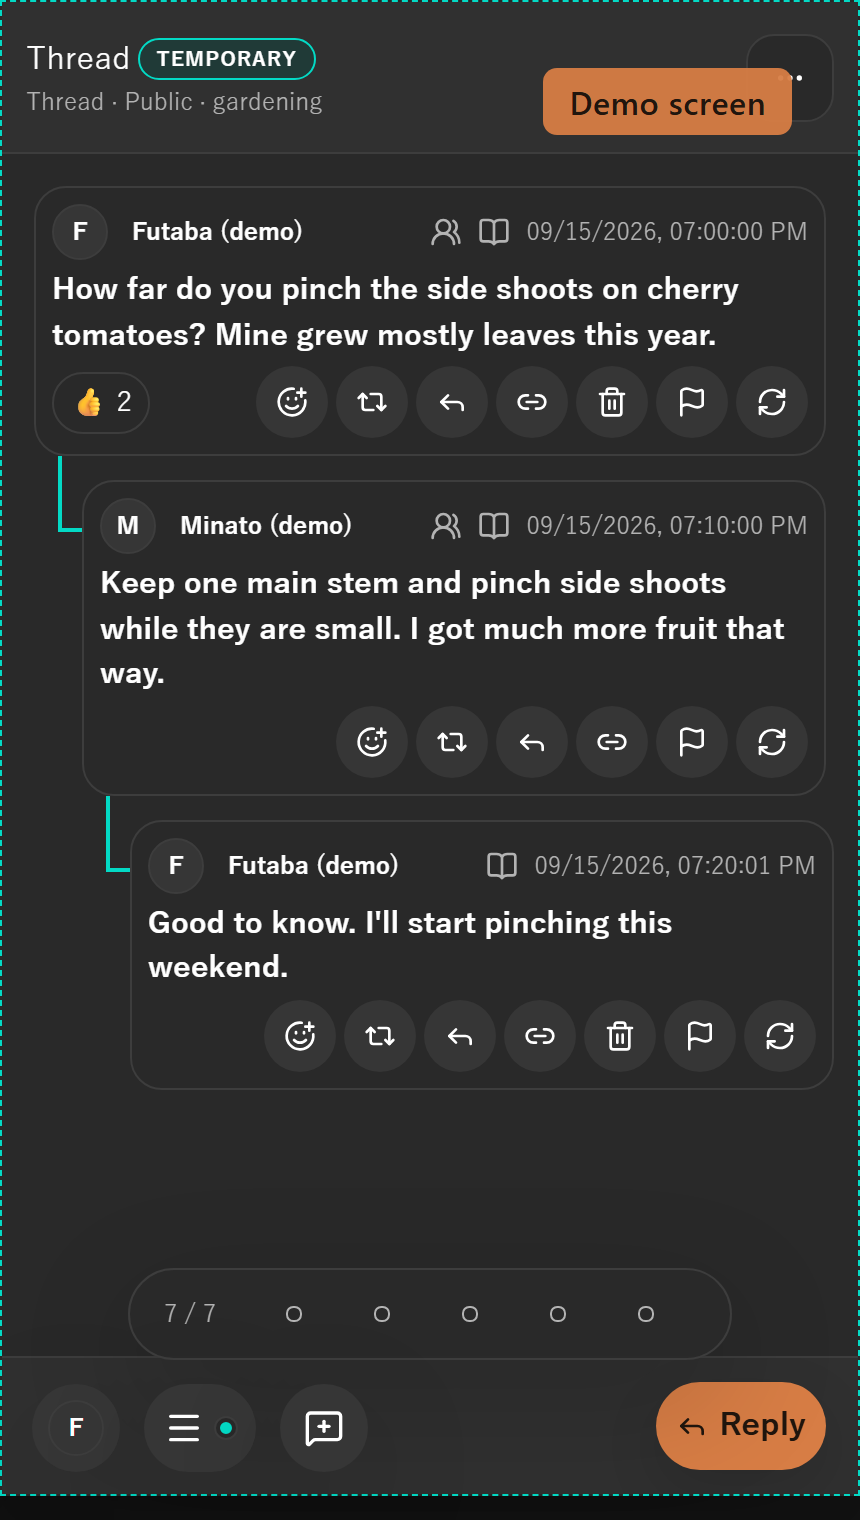
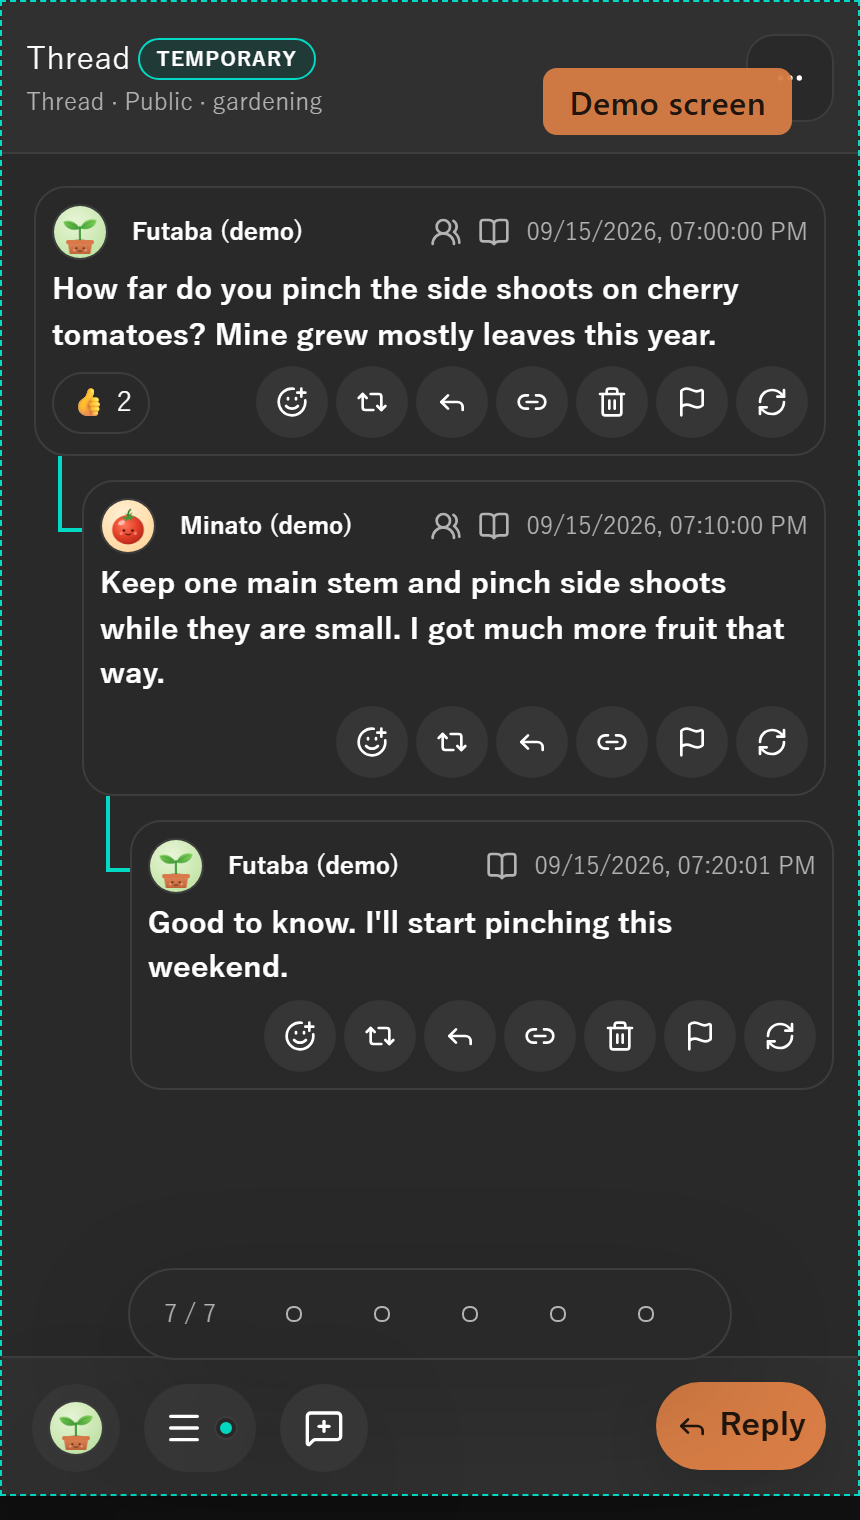
feat(lp): LP の画面のデモ参加者に、撮影用に作ったプロフィール画像を付ける（#1668）
- ユーザーの指示（2026-10-09）で、既定の頭文字のアバターの代わりに、ふたばに鉢の双葉の芽、みなとにミニトマトの絵を付ける。絵は撮影用に作ったもので、実在の人物や第三者の画像ではない。
- browser mock の seed に、hash ごとの blob の中身（seedBlobPayloads）を渡せるようにした。getBlobMediaPayload がそれを返し、既存の撮影の物語（S0〜S3）は変わらない。
- 返信先の表示（reply_preview）にも、実アプリと同じく返信先の投稿者の画像を載せる。

diff --git a/apps/desktop/tests/promo/fixtures/lpStory.ts b/apps/desktop/tests/promo/fixtures/lpStory.ts
@@ -1,5 +1,9 @@
+import { readFileSync } from 'node:fs';
+import path from 'node:path';
+
+import type { BlobMediaPayload, ProfileAssetView } from '../../../src/lib/api';
 import type { DesktopMockApiOptions } from '../../../src/mocks/desktopMockModel';
-import { FUTABA, MINATO, post, replyFields, type PromoLocale } from './demoStory';
+import { FUTABA, MINATO, post, replyFields, type Person, type PromoLocale } from './demoStory';
 
 /**
  * LP の画面 (#1668) の合成のデモ物語。話題「ベランダ菜園」で、ふたば（操作者）が質問し、
@@ -55,6 +59,18 @@ export const GARDEN_COPY = {
 export const GARDEN_QUESTION_ID = 'promo-garden-question';
 
 /**
+ * デモ参加者のプロフィール画像。撮影用に作った絵（ふたば: 双葉の芽、みなと: ミニトマト）で、
+ * 実在の人物や第三者の画像ではない。
+ */
+function avatar(file: string): { asset: ProfileAssetView; payload: BlobMediaPayload } {
+  const bytes = readFileSync(path.join(import.meta.dirname, 'avatars', file));
+  return {
+    asset: { hash: `promo-avatar-${file.replace(/\.png$/, '')}`, mime: 'image/png', bytes: bytes.length, role: 'profile_avatar' },
+    payload: { bytes_base64: bytes.toString('base64'), mime: 'image/png' },
+  };
+}
+
+/**
  * 撮影に使う mock の seed。開発者モードの面は seed にも画面にも現れない。
  *
  * - 公開の話題: ふたばの質問、みなとの答え（返信）、みなとの前日の投稿
@@ -67,6 +83,11 @@ export const GARDEN_QUESTION_ID = 'promo-garden-question';
 export function createGardenSeed(locale: PromoLocale): DesktopMockApiOptions {
   const copy = GARDEN_COPY[locale];
   const topic = gardenTopic(locale);
+  const futaba = avatar('futaba.png');
+  const minato = avatar('minato.png');
+  const pictureOf = (person: Person) => ({
+    author_picture_asset: person === FUTABA ? futaba.asset : minato.asset,
+  });
   const question = post({
     id: GARDEN_QUESTION_ID,
     person: FUTABA,
@@ -74,6 +95,7 @@ export function createGardenSeed(locale: PromoLocale): DesktopMockApiOptions {
     content: copy.question,
     createdAt: BASE_TIME,
     reactions: [{ emoji: '👍', count: 2 }],
+    extra: pictureOf(FUTABA),
   });
   const answer = post({
     id: 'promo-garden-answer',
@@ -81,7 +103,7 @@ export function createGardenSeed(locale: PromoLocale): DesktopMockApiOptions {
     locale,
     content: copy.answer,
     createdAt: BASE_TIME + 600,
-    extra: replyFields(question, topic),
+    extra: { ...replyFields(question, topic), ...pictureOf(MINATO) },
   });
   const firstRed = post({
     id: 'promo-garden-first-red',
@@ -90,19 +112,21 @@ export function createGardenSeed(locale: PromoLocale): DesktopMockApiOptions {
     content: copy.firstRed,
     createdAt: BASE_TIME - 86400,
     reactions: [{ emoji: '🍅', count: 4 }],
+    extra: pictureOf(MINATO),
   });
   // チャンネルの投稿は、タイムラインと同じく新しい順に並べる。
   const channel = [...copy.channel]
-    .map((content, index) =>
-      post({
+    .map((content, index) => {
+      const person = index === 1 ? FUTABA : MINATO;
+      return post({
         id: `promo-garden-channel-${index}`,
-        person: index === 1 ? FUTABA : MINATO,
+        person,
         locale,
         content,
         createdAt: BASE_TIME + 3600 + index * 300,
-        extra: { channel_id: CHANNEL_ID, audience_label: 'Private channel' },
-      })
-    )
+        extra: { channel_id: CHANNEL_ID, audience_label: 'Private channel', ...pictureOf(person) },
+      });
+    })
     .reverse();
 
   return {
@@ -111,6 +135,7 @@ export function createGardenSeed(locale: PromoLocale): DesktopMockApiOptions {
       name: FUTABA.name[locale],
       display_name: FUTABA.name[locale],
       about: locale === 'ja' ? 'kukuri を試しているデモ用アカウントです。' : 'A demo account trying kukuri.',
+      picture_asset: futaba.asset,
     },
     authorSocialViews: {
       [MINATO.pubkey]: {
@@ -120,7 +145,12 @@ export function createGardenSeed(locale: PromoLocale): DesktopMockApiOptions {
         following: true,
         followed_by: true,
         mutual: true,
+        picture_asset: minato.asset,
       },
+    },
+    seedBlobPayloads: {
+      [futaba.asset.hash]: futaba.payload,
+      [minato.asset.hash]: minato.payload,
     },
     seedPosts: { [topic]: [...channel, answer, question, firstRed] },
     // 招待を受け取ったときに参加するチャンネル。作ったのはみなと。

diff --git a/apps/desktop/src/mocks/desktopMockModel.ts b/apps/desktop/src/mocks/desktopMockModel.ts
@@ -1,5 +1,6 @@
 import {
   type AuthorSocialView,
+  type BlobMediaPayload,
   type BookmarkedPostView,
   type ChannelAccessTokenPreview,
   type GameRoomView,
@@ -52,6 +53,11 @@ export type DesktopMockApiOptions = {
    * 撮影中に作った投稿を seed の投稿と同じ日時帯に並べるために使う。
    */
   clockBase?: number;
+  /**
+   * hash ごとの blob の中身。getBlobMediaPayload が返す。告知素材の撮影 (#1668) が、
+   * デモ参加者のプロフィール画像を表示するために使う。
+   */
+  seedBlobPayloads?: Record<string, BlobMediaPayload>;
 };
 
 export function parseMockChannelAccessTokenPreview(

diff --git a/apps/desktop/src/mocks/api/connectivity.ts b/apps/desktop/src/mocks/api/connectivity.ts
@@ -610,8 +610,9 @@ export function createConnectivityMock(runtime: MockRuntime): ConnectivityMock {
       return 'peer1@127.0.0.1:7777';
     },
     async getBlobMediaPayload(hash, mime): Promise<BlobMediaPayload | null> {
-      if (metaverseAssetPayloads[hash]) {
-        return metaverseAssetPayloads[hash];
+      const stored = metaverseAssetPayloads[hash] ?? runtime.options?.seedBlobPayloads?.[hash];
+      if (stored) {
+        return stored;
       }
       return {
         bytes_base64: mime.startsWith('video/') ? 'ZmFrZS12aWRlbw==' : 'ZmFrZS1pbWFnZQ==',

diff --git a/apps/desktop/tests/promo/fixtures/demoStory.ts b/apps/desktop/tests/promo/fixtures/demoStory.ts
@@ -138,6 +138,7 @@ export function replyFields(parent: SeedPostInput, topic: string): Partial<SeedP
         pubkey: parent.author_pubkey,
         name: parent.author_name ?? null,
         display_name: parent.author_display_name ?? null,
+        picture_asset: parent.author_picture_asset ?? null,
       },
       content: parent.content,
       content_status: parent.content_status,

diff --git a/docs/progress/2026-09-15-promo-lp-brief.md b/docs/progress/2026-09-15-promo-lp-brief.md
@@ -110,6 +110,7 @@ LP の画面（L0〜L3）と、Product Hunt・note・X・動画の画面（S0〜
 - 会話: ふたばが「ミニトマトの脇芽、どこまで摘んでいますか？今年は葉ばかり茂ってしまいました。」と聞き、みなとが「主枝を1本にして、脇芽は小さいうちに摘むと実がよく付きました。」と返信する。L2 ではふたばが「なるほど。今週末、さっそく摘んでみます。」と返信する。みなとの前日の投稿「ベランダのミニトマト、今朝ひとつ目が赤くなりました。」を検索の結果とタイムラインに置く。
 - 小さな輪: みなとが作った招待限定のプライベートチャンネル `苗の交換会（デモ）` / `Seedling swap (demo)`。ふたばは招待を受け取って参加し、苗を持ち寄る相談を 3 件交わす。
 - 文言の正本は `apps/desktop/tests/promo/fixtures/lpStory.ts`（日英）。
+- プロフィール画像: 撮影用に作った絵（ふたば: 鉢の双葉の芽、みなと: ミニトマト）を割り当てる（2026-10-09 のユーザー指示）。実在の人物や第三者の画像は使わない。画像は `apps/desktop/tests/promo/fixtures/avatars/`。
 
 #### Product Hunt・note・X の物語（S0〜S4）
 
